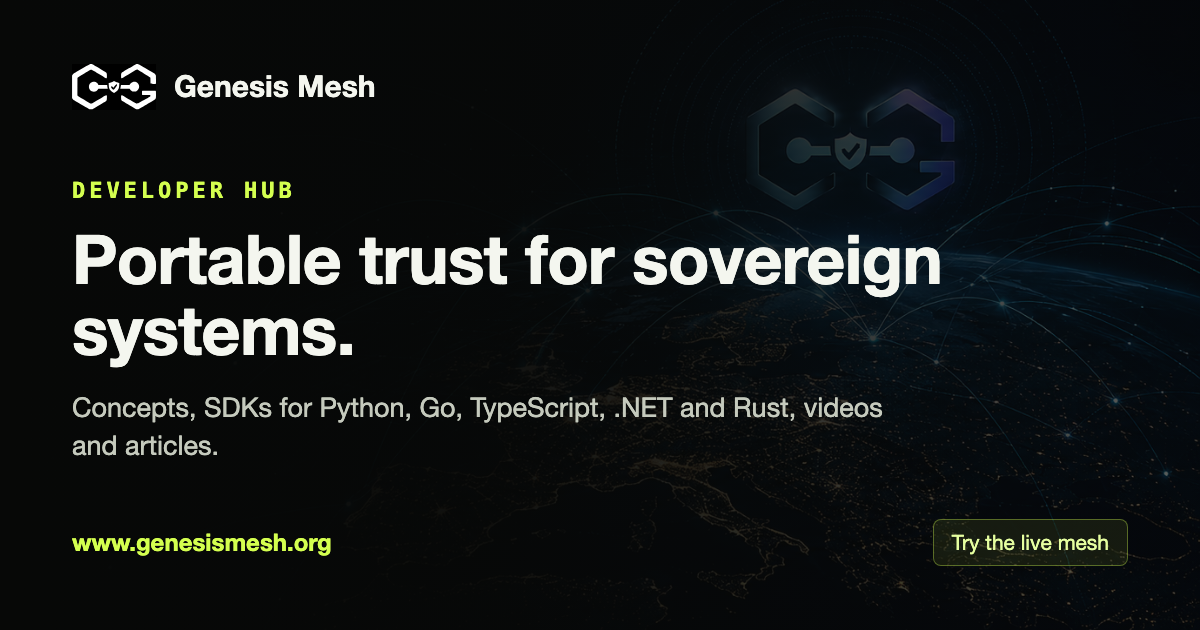
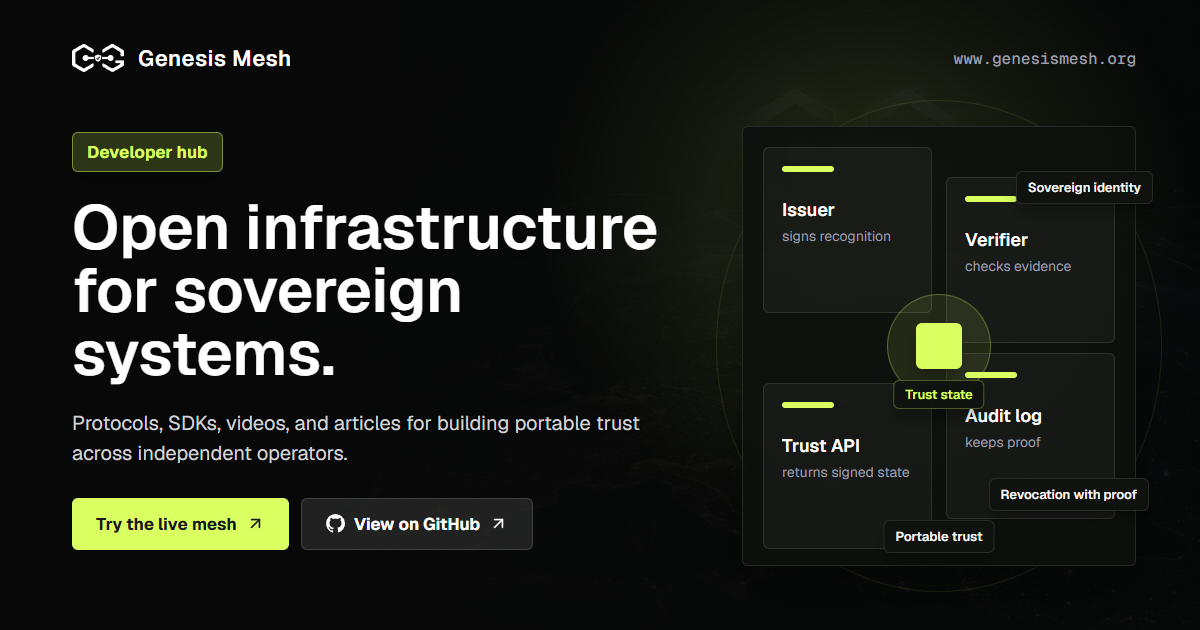
Rebuild the social card from the hub's own hero
The card now uses the hub's Geist type, its lime eyebrow pill and buttons,
the hero background at the same opacity and scrim, and the trust-node
panel, with the hero's current headline.

The card URL carries a version query so platforms that cache images by URL
fetch the new one, and the alt text describes the new card.

diff --git a/src/content/site.ts b/src/content/site.ts
@@ -4,8 +4,9 @@ export const siteConfig = {
   organization: "GenesisMesh Labs",
   description:
     "Portable trust for sovereign systems, with guides, SDKs, and evidence from independent operators.",
-  socialCard: "/images/marketing/social-card.png",
-  socialCardAlt: "Genesis Mesh portable trust for sovereign systems",
+  // Bump `v` when the card changes, so platforms that cache by URL fetch it again.
+  socialCard: "/images/marketing/social-card.png?v=2",
+  socialCardAlt: "Genesis Mesh developer hub: open infrastructure for sovereign systems",
 };
 
 export const siteLinks = {

diff --git a/src/app/page.tsx b/src/app/page.tsx
@@ -10,7 +10,7 @@ export const metadata: Metadata = pageMetadata({
   description:
     "Explore Genesis Mesh portable trust through its protocol guides, SDKs, videos, articles, and operator resources.",
   path: "/",
-  imageAlt: "Genesis Mesh portable trust for sovereign systems",
+  imageAlt: "Genesis Mesh developer hub: open infrastructure for sovereign systems",
   twitterTitle: siteConfig.name,
   twitterDescription: "Open infrastructure for sovereign systems.",
 });

diff --git a/src/app/overview/page.tsx b/src/app/overview/page.tsx
@@ -14,7 +14,7 @@ export const metadata: Metadata = pageMetadata({
   title: seo.title,
   description: seo.description,
   path: "/overview",
-  imageAlt: "Genesis Mesh portable trust for sovereign systems",
+  imageAlt: "Genesis Mesh developer hub: open infrastructure for sovereign systems",
 });
 
 export default function GenesisMeshPage() {
